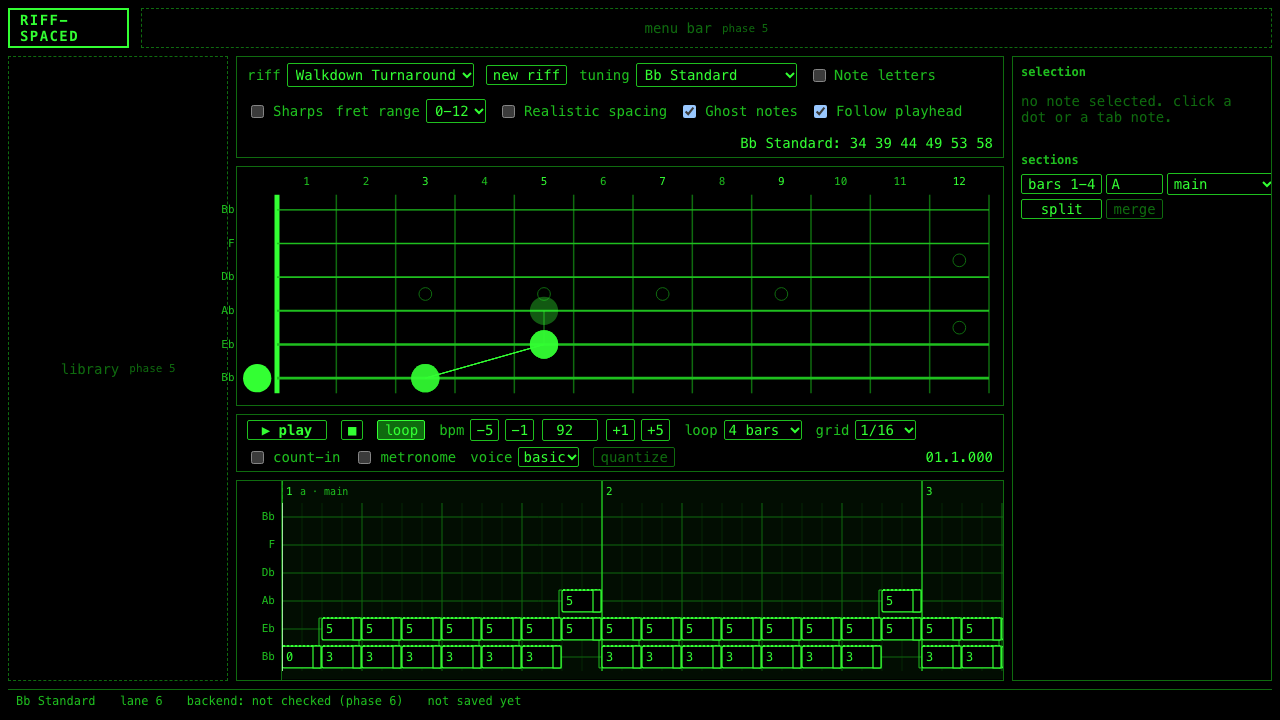
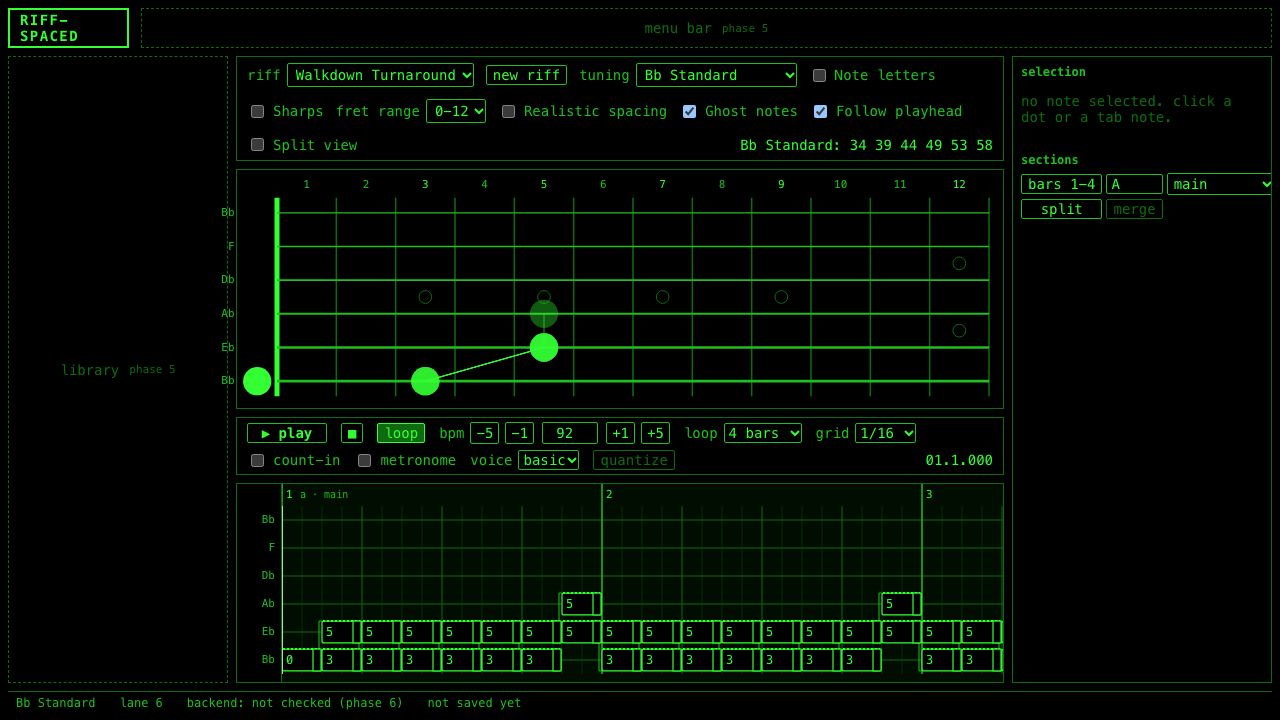
feat(view): add four-way split fretboard view synced to playback
WHY: A 16-bar riff is four phrases; seeing each quarter of the loop on its own neck, with the current one lit, is how the owner asked to watch a riff go by (SPEC 5.5).

WHAT:
- fretboard/SplitView.tsx: quadrantRanges splits the loop into four bar ranges (1, 2, 3 or 4 bars each), notesInBars filters by start, 2x2 grid of the same Fretboard component with titles `bars 1-4`, the quadrant holding the playback position gets the active class while playing, sounding notes flash in their own quadrant, selection still works
- Shell renders SplitView in place of the single fretboard when the view toggle is on; dev toolbar "Split view" checkbox
- Tests: ranges for 4/8/12/16 bars, quadrant 4 holds the walkdown's 9 bar-4 notes, exactly one active quadrant while playing, flash lands in the right quadrant; e2e: 16-bar riff, four quadrants, one active during playback, screenshot docs/screenshots/phase-04/split-view.png

LEARN: The split view is forty lines because the fretboard is a pure view over props: four instances with four note subsets and the same highlight set is all it takes. Anything stateful inside Fretboard would have had to be duplicated or coordinated; keeping state in the store made the feature a filter and a loop.

TEST: `npm run check` exit 0, 248 unit tests. `npm run e2e` exit 0 (7 specs).

diff --git a/frontend/src/fretboard/SplitView.tsx b/frontend/src/fretboard/SplitView.tsx
@@ -1,0 +1,91 @@
+import { useMemo } from 'react';
+import type { Note } from '@/model/types';
+import { TICKS_PER_BAR } from '@/music/time';
+import { useStore } from '@/store';
+import { Fretboard } from './Fretboard';
+import './splitView.css';
+
+/**
+ * Four-way split (SPEC 5.5): a 2x2 grid of mini fretboards, each showing one quarter of
+ * the loop (1, 2, 3 or 4 bars per quadrant for loops of 4, 8, 12, 16). Each quadrant shows
+ * every note that starts in its bar range; the quadrant containing the playback position
+ * is outlined bright while playing, and sounding notes flash where they live.
+ */
+export function quadrantRanges(lengthBars: number): { fromBar: number; toBar: number }[] {
+  const per = Math.max(1, Math.ceil(lengthBars / 4));
+  const ranges = [];
+  for (let i = 0; i < 4; i++) {
+    const fromBar = i * per;
+    const toBar = Math.min(lengthBars, fromBar + per);
+    ranges.push({ fromBar, toBar: Math.max(fromBar, toBar) });
+  }
+  return ranges;
+}
+
+export function notesInBars(notes: readonly Note[], fromBar: number, toBar: number): Note[] {
+  const from = fromBar * TICKS_PER_BAR;
+  const to = toBar * TICKS_PER_BAR;
+  return notes.filter((n) => n.start >= from && n.start < to);
+}
+
+export function SplitView() {
+  const riff = useStore((s) => s.riff);
+  const showLetters = useStore((s) => s.showLetters);
+  const accidentals = useStore((s) => s.accidentals);
+  const fretRange = useStore((s) => s.fretRange);
+  const realisticSpacing = useStore((s) => s.realisticSpacing);
+  const highlightIds = useStore((s) => s.highlightIds);
+  const selectedNoteIds = useStore((s) => s.selectedNoteIds);
+  const isPlaying = useStore((s) => s.isPlaying);
+  const positionTick = useStore((s) => s.positionTick);
+  const editCursorTick = useStore((s) => s.editCursorTick);
+  const select = useStore((s) => s.select);
+
+  const ranges = useMemo(() => quadrantRanges(riff.lengthBars), [riff.lengthBars]);
+  const tick = isPlaying ? positionTick : editCursorTick;
+  const activeIndex = ranges.findIndex(
+    (r) => tick >= r.fromBar * TICKS_PER_BAR && tick < r.toBar * TICKS_PER_BAR,
+  );
+
+  return (
+    <div className="split-view" data-testid="split-view">
+      {ranges.map((r, i) => {
+        const active = isPlaying && i === activeIndex;
+        const empty = r.toBar <= r.fromBar;
+        return (
+          <section
+            key={i}
+            className={
+              active ? 'split-view__quadrant split-view__quadrant--active' : 'split-view__quadrant'
+            }
+            data-testid={`quadrant-${i}`}
+            data-active={active ? 'true' : 'false'}
+            aria-label={`bars ${r.fromBar + 1} to ${r.toBar}`}
+          >
+            <h4 className="split-view__title">
+              {empty
+                ? 'empty'
+                : r.toBar - r.fromBar === 1
+                  ? `bar ${r.fromBar + 1}`
+                  : `bars ${r.fromBar + 1}-${r.toBar}`}
+            </h4>
+            <div className="split-view__board">
+              <Fretboard
+                tuning={riff.tuning}
+                notes={notesInBars(riff.notes, r.fromBar, r.toBar)}
+                highlightIds={highlightIds}
+                selectedIds={selectedNoteIds}
+                range={fretRange}
+                showLetters={showLetters}
+                accidentals={accidentals}
+                realisticSpacing={realisticSpacing}
+                onNoteClick={(id, e) => select([id], e.shiftKey)}
+                label={`quadrant ${i + 1}`}
+              />
+            </div>
+          </section>
+        );
+      })}
+    </div>
+  );
+}

diff --git a/frontend/src/app/Shell.tsx b/frontend/src/app/Shell.tsx
@@ -4,6 +4,7 @@ import { Inspector } from '@/inspector/Inspector';
 import { TransportBar } from '@/transport/TransportBar';
 import { DevToolbar } from '@/dev/DevToolbar';
 import { Fretboard } from '@/fretboard/Fretboard';
+import { SplitView } from '@/fretboard/SplitView';
 import { TabLanes } from '@/tab/TabLanes';
 import { useKeyboard } from '@/hooks/useKeyboard';
 import { useStore } from '@/store';
@@ -28,6 +29,7 @@ export function Shell() {
   const selectedNoteIds = useStore((s) => s.selectedNoteIds);
   const highlightIds = useStore((s) => s.highlightIds);
   const panels = useStore((s) => s.panels);
+  const splitView = useStore((s) => s.splitView);
   const select = useStore((s) => s.select);
   const editCursorTick = useStore((s) => s.editCursorTick);
   const ghostNotes = useStore((s) => s.ghostNotes);
@@ -70,22 +72,26 @@ export function Shell() {
       <main className="shell__center">
         <DevToolbar />
         <section className="shell__fretboard" aria-label="fretboard area">
-          <Fretboard
-            tuning={riff.tuning}
-            notes={shown}
-            dimmedIds={dimmedIds}
-            selectedIds={selectedNoteIds}
-            highlightIds={highlightIds}
-            range={fretRange}
-            showLetters={showLetters}
-            accidentals={accidentals}
-            realisticSpacing={realisticSpacing}
-            onCellClick={({ string, fret, shiftKey }) =>
-              addNoteAtCursor(string, fret, { chord: shiftKey })
-            }
-            onNoteClick={(id, e) => select([id], e.shiftKey)}
-            onNoteContextMenu={(id) => removeNotes([id])}
-          />
+          {splitView ? (
+            <SplitView />
+          ) : (
+            <Fretboard
+              tuning={riff.tuning}
+              notes={shown}
+              dimmedIds={dimmedIds}
+              selectedIds={selectedNoteIds}
+              highlightIds={highlightIds}
+              range={fretRange}
+              showLetters={showLetters}
+              accidentals={accidentals}
+              realisticSpacing={realisticSpacing}
+              onCellClick={({ string, fret, shiftKey }) =>
+                addNoteAtCursor(string, fret, { chord: shiftKey })
+              }
+              onNoteClick={(id, e) => select([id], e.shiftKey)}
+              onNoteContextMenu={(id) => removeNotes([id])}
+            />
+          )}
         </section>
         <section className="shell__transport" aria-label="transport">
           <TransportBar />

diff --git a/frontend/src/fretboard/SplitView.test.tsx b/frontend/src/fretboard/SplitView.test.tsx
@@ -1,0 +1,52 @@
+import { act, render } from '@testing-library/react';
+import { beforeEach, describe, expect, it } from 'vitest';
+import { bootstrapStore, useStore } from '@/store';
+import { notesInBars, quadrantRanges, SplitView } from './SplitView';
+
+describe('SplitView', () => {
+  beforeEach(() => {
+    useStore.setState(useStore.getInitialState(), true);
+    bootstrapStore();
+  });
+
+  it('splits 4, 8, 12, 16 bars into four quadrants', () => {
+    expect(quadrantRanges(4).map((r) => [r.fromBar, r.toBar])).toEqual([
+      [0, 1],
+      [1, 2],
+      [2, 3],
+      [3, 4],
+    ]);
+    expect(quadrantRanges(8).map((r) => [r.fromBar, r.toBar])).toEqual([
+      [0, 2],
+      [2, 4],
+      [4, 6],
+      [6, 8],
+    ]);
+    expect(quadrantRanges(12)[3]).toEqual({ fromBar: 9, toBar: 12 });
+    expect(quadrantRanges(16)[3]).toEqual({ fromBar: 12, toBar: 16 });
+    expect(quadrantRanges(2)[3]).toEqual({ fromBar: 3, toBar: 3 });
+  });
+
+  it('shows each quadrant the notes of its bars and marks the active one while playing', () => {
+    const { container } = render(<SplitView />);
+    const riff = useStore.getState().riff;
+    expect(container.querySelectorAll('[data-testid="fretboard"]')).toHaveLength(4);
+    expect(notesInBars(riff.notes, 3, 4)).toHaveLength(9);
+    expect(container.querySelectorAll('[data-testid="quadrant-3"] [data-note-id]')).toHaveLength(9);
+    expect(container.querySelectorAll('[data-active="true"]')).toHaveLength(0);
+    act(() => {
+      useStore.getState().play();
+      useStore.getState().setPositionTick(3 * 1920 + 100);
+    });
+    expect(container.querySelectorAll('[data-active="true"]')).toHaveLength(1);
+    expect(container.querySelector('[data-testid="quadrant-3"]')!.getAttribute('data-active')).toBe(
+      'true',
+    );
+    act(() => useStore.getState().setHighlightIds(['wd-n48']));
+    expect(
+      container.querySelectorAll('[data-testid="quadrant-3"] .fb-note--sounding'),
+    ).toHaveLength(1);
+    act(() => useStore.getState().stop());
+    expect(container.querySelectorAll('[data-active="true"]')).toHaveLength(0);
+  });
+});

diff --git a/frontend/e2e/splitview.spec.ts b/frontend/e2e/splitview.spec.ts
@@ -1,0 +1,29 @@
+import { expect, test } from '@playwright/test';
+import { screenshotPath, watchConsole } from './helpers';
+
+test('split view shows four quadrants with exactly one active during playback', async ({
+  page,
+}) => {
+  const console = watchConsole(page);
+  await page.goto('/');
+  await page.getByLabel('riff').selectOption({ label: 'Walkdown Turnaround' });
+  // Make a 16-bar riff from the demo: 4 bars per quadrant.
+  await page.getByLabel('loop length').selectOption('16');
+  await page.getByLabel('Split view').check();
+  await expect(page.getByTestId('split-view')).toBeVisible();
+  await expect(page.getByTestId('fretboard')).toHaveCount(4);
+  await expect(page.getByTestId('quadrant-0')).toContainText('bars 1-4');
+  await expect(page.getByTestId('quadrant-3')).toContainText('bars 13-16');
+  await expect(page.locator('[data-active="true"]')).toHaveCount(0);
+
+  await page.getByRole('button', { name: 'play' }).click();
+  await page.waitForTimeout(500);
+  await expect(page.locator('[data-active="true"]')).toHaveCount(1);
+  await expect(page.getByTestId('quadrant-0')).toHaveAttribute('data-active', 'true');
+  await page.screenshot({ path: screenshotPath('phase-04', 'split-view'), fullPage: true });
+  await page.keyboard.press('Space');
+  await expect(page.locator('[data-active="true"]')).toHaveCount(0);
+  await page.getByLabel('Split view').uncheck();
+  await expect(page.getByTestId('fretboard')).toHaveCount(1);
+  expect(console.errors).toEqual([]);
+});

diff --git a/frontend/src/dev/DevToolbar.tsx b/frontend/src/dev/DevToolbar.tsx
@@ -26,6 +26,8 @@ export function DevToolbar() {
   const setGhostNotes = useStore((s) => s.setGhostNotes);
   const followPlayhead = useStore((s) => s.followPlayhead);
   const setFollowPlayhead = useStore((s) => s.setFollowPlayhead);
+  const splitView = useStore((s) => s.splitView);
+  const setSplitView = useStore((s) => s.setSplitView);
 
   const rangeLabel = `${fretRange.from}-${fretRange.to}`;
   const presetName =
@@ -141,6 +143,15 @@ export function DevToolbar() {
           onChange={(e) => setFollowPlayhead(e.target.checked)}
         />
         Follow playhead
+      </label>
+
+      <label>
+        <input
+          type="checkbox"
+          checked={splitView}
+          onChange={(e) => setSplitView(e.target.checked)}
+        />
+        Split view
       </label>
 
       <span className="dev-toolbar__status" data-testid="tuning-status">

diff --git a/frontend/src/fretboard/splitView.css b/frontend/src/fretboard/splitView.css
@@ -1,0 +1,34 @@
+.split-view {
+  display: grid;
+  grid-template-columns: 1fr 1fr;
+  grid-template-rows: 1fr 1fr;
+  gap: 6px;
+  width: 100%;
+  height: 100%;
+}
+
+.split-view__quadrant {
+  display: flex;
+  flex-direction: column;
+  min-height: 0;
+  border: 1px solid var(--color-dim);
+  transition: border-color 80ms ease-out;
+}
+
+.split-view__quadrant--active {
+  border-color: var(--color-flash);
+  box-shadow: 0 0 0 1px var(--color-flash) inset;
+}
+
+.split-view__title {
+  margin: 0;
+  padding: 2px 6px;
+  font-size: 11px;
+  font-weight: 400;
+  color: var(--color-mid);
+}
+
+.split-view__board {
+  flex: 1;
+  min-height: 0;
+}

diff --git a/frontend/src/app/shell.css b/frontend/src/app/shell.css
@@ -59,6 +59,11 @@
   border: 1px solid var(--color-dim);
 }
 
+.shell__fretboard:has(.split-view) {
+  height: 380px;
+  border: none;
+}
+
 .shell__transport {
   flex: 0 0 auto;
 }

diff --git a/STATUS.md b/STATUS.md
@@ -1,9 +1,9 @@
 # STATUS
 
-Updated: 2026-10-25T02:26:09Z
+Updated: 2026-10-25T02:28:21Z
 Phase: 4 Playback
-Last completed task: P4.T4 Visual sync: fretboard flash and playhead
-Next task: P4.T5 Four-way split view
+Last completed task: P4.T5 Four-way split view
+Next task: P4.T6 Offline render and non-silence test
 
 ## Preflight
 claude: 2.1.310 | node: v26.0.0 | npm: 11.12.1 | python3: 3.14.7 (backend pins 3.12 via uv) | uv: 0.12.5 | gh: 2.92.0, logged in as RidleyDiSiena, https | git: 2.54.0 | docker: 29.4.1 (daemon running) | ffmpeg: 9.0.1 | chrome tools: available (console reads work, screenshot injection times out on the dev page, see Known issues)
@@ -53,7 +53,7 @@ Phase 4:
 - [x] P4.T2 Voices
 - [x] P4.T3 Transport and store integration
 - [x] P4.T4 Visual sync: fretboard flash and playhead
-- [ ] P4.T5 Four-way split view
+- [x] P4.T5 Four-way split view
 - [ ] P4.T6 Offline render and non-silence test
 - [ ] P4.T7 Chrome verification and phase exit
 
